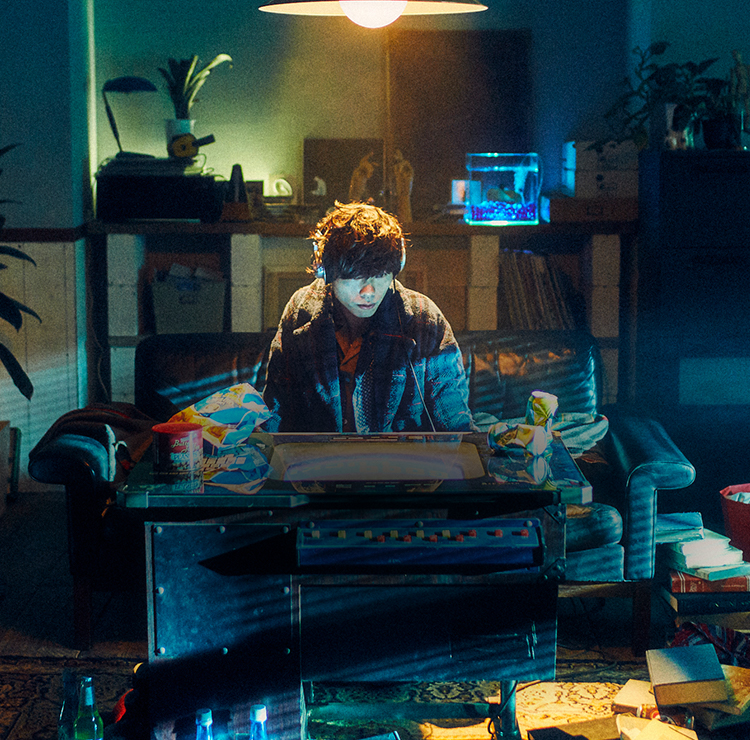
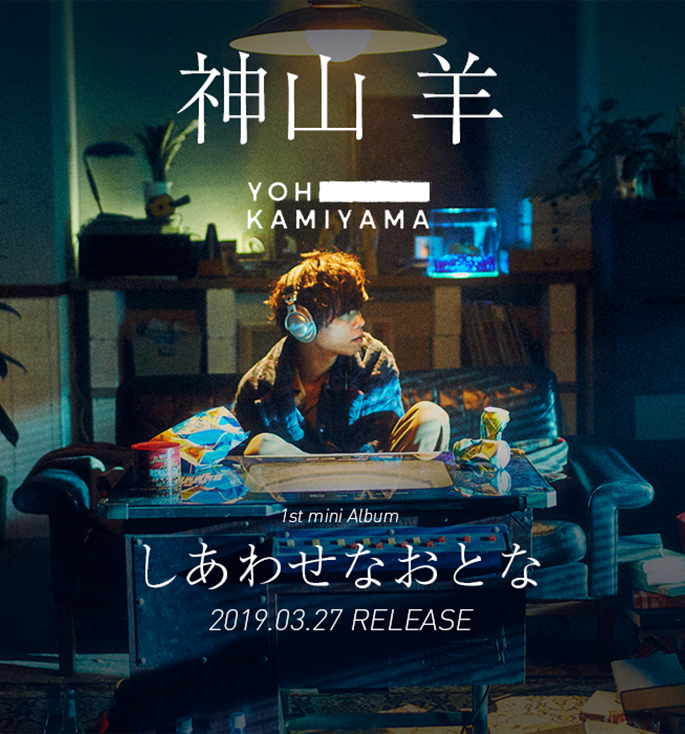
LP修正

diff --git a/lp/css/style.css b/lp/css/style.css
@@ -142,24 +142,30 @@ Base Media Queries PC
 	header
 ================================*/
 .header {
+  position: relative;
+  background: #000 url(../img/mv.jpg) repeat-x center center;
+  background-size: auto 100%;
+  text-align: center; }
+
+.header__logo {
+  text-align: center; }
+  .header__logo img {
+    margin: 0 auto; }
+
+.header__wrap {
   position: absolute;
   top: 0;
   right: 0;
+  bottom: 0;
   left: 0;
-  padding: 32px 0;
-  z-index: 1000; }
+  max-width: 1140px; }
 
-.header__wrap {
-  display: flex;
-  align-items: center;
-  justify-content: space-between;
-  max-width: 1110px; }
-
-.header__logo {
-  width: 162px; }
-
-.header__sns .sns__item {
-  margin-left: 10px; }
+.header__sns {
+  padding-top: 32px; }
+  .header__sns.sns {
+    justify-content: flex-end; }
+  .header__sns .sns__item {
+    margin-left: 10px; }
 
 /*================================
 	sns
@@ -171,29 +177,6 @@ Base Media Queries PC
 
 .sns__item {
   width: 28px; }
-
-/*================================
-	mainVisual
-================================*/
-.mainVisual {
-  position: relative;
-  height: 666px;
-  background: #000 url(../img/mv.jpg) repeat-x center center;
-  background-size: auto 100%; }
-
-.mainVisual__wrap {
-  display: flex;
-  align-items: flex-end;
-  justify-content: center;
-  position: absolute;
-  top: 0;
-  right: 0;
-  bottom: 0;
-  left: 0;
-  padding: 68px 0; }
-
-.mainVisual__logo {
-  width: 698px; }
 
 /*================================
 	album
@@ -411,10 +394,7 @@ Base Media Queries PC
 ================================*/
 .shop {
   padding: 100px 0;
-  background-image: url(../img/bg_shop.jpg);
-  background-position: center center;
-  background-repeat: no-repeat;
-  background-size: cover; }
+  background-color: #e6e6e6; }
 
 .shop__head {
   max-width: 344px;
@@ -496,6 +476,34 @@ Base Media Queries PC
     -ms-transform: rotate(45deg);
     -webkit-transform: rotate(45deg);
     transform: rotate(45deg); }
+
+/*================================
+	live
+================================*/
+.live {
+  padding: 0 0 140px;
+  background-color: #e6e6e6; }
+
+.live__head {
+  max-width: 344px;
+  margin: 0 auto 7em;
+  text-align: center; }
+
+.live__wrap {
+  max-width: 640px; }
+
+.live__head1 {
+  margin-bottom: 0.2em;
+  font-size: 2.6rem; }
+
+.live__head2 {
+  margin-bottom: 0.2em;
+  font-size: 2.0rem; }
+
+.live__txt {
+  margin-bottom: 1em;
+  font-size: 1.4rem;
+  line-height: 2.2; }
 
 /*================================
 	footer
@@ -598,12 +606,6 @@ Base Media Queries SP
   /*================================
   	header
   ================================*/
-  .header {
-    padding: 20px 0; }
-
-  .header__logo {
-    width: 23.47826%; }
-
   .header__sns {
     display: none; }
 
@@ -612,21 +614,6 @@ Base Media Queries SP
   ================================*/
   .sns__item {
     width: 40px; }
-
-  /*================================
-  	mainVisual
-  ================================*/
-  .mainVisual {
-    height: auto;
-    padding-top: 97.86667%;
-    background: #000 url(../img/mv_sp.jpg) no-repeat center center;
-    background-size: cover; }
-
-  .mainVisual__wrap {
-    padding: 3em 15px; }
-
-  .mainVisual__logo {
-    width: 100%; }
 
   /*================================
   	album
@@ -830,6 +817,36 @@ Base Media Queries SP
       height: 7px; }
     .shop__button img {
       width: 20%; }
+
+  /*================================
+  	live
+  ================================*/
+  .live {
+    padding: 3em 0 6em; }
+
+  .live__head {
+    max-width: none;
+    width: 49.85507%;
+    margin: 0 auto 3.5em; }
+
+  .live__wrap {
+    margin: 0 15px; }
+
+  .live__head1 {
+    margin-bottom: 0.2em;
+    font-size: 18px;
+    font-size: get_vmax(18); }
+
+  .live__head2 {
+    margin-bottom: 0.2em;
+    font-size: 15px;
+    font-size: get_vmax(15); }
+
+  .live__txt {
+    margin-bottom: 1em;
+    font-size: 12px;
+    font-size: get_vmax(12);
+    line-height: 1.8; }
 
   /*================================
   	footer

diff --git a/lp/index.html b/lp/index.html
@@ -20,19 +20,17 @@
 <body>
 	<div id="wrapper" class="-fixed">
 		<header class="header">
+			<h1 class="header__logo">
+				<img src="img/mv.jpg" alt="YOH KAMIYAMA" class="pc-only">
+				<img src="img/mv_sp.jpg" alt="YOH KAMIYAMA" class="sp-only">
+			</h1>
 			<div class="header__wrap wrap">
-				<h1 class="header__logo"><img src="img/logo.png" alt="YOH KAMIYAMA"></h1>
 				<div class="header__sns sns">
 					<a href="#" class="sns__item"><img src="./img/icn_twitter.svg" alt="twitter"></a>
 					<a href="#" class="sns__item"><img src="./img/icn_facebook.svg" alt="facebook"></a>
 				<!--/.header__sns--></div>
 			<!--/.header__wrap--></div>
 		</header>
-		<main class="mainVisual">
-			<div class="mainVisual__wrap wrap">
-				<h1 class="mainVisual__logo  -anim"><img src="img/logo_mv.png" alt=""></h1>
-			<!--/.mainVisual__wrap--></div>
-		</main>
 		<div class="contents">
 			<div class="album">
 				<div class="album__wrap wrap">
@@ -113,30 +111,12 @@
 								<figcaption class="video__item__title">タイトルはいります</figcaption>
 							</figure>
 						<!--/.video__item--></div>
-						<div data-youtube-id="" class="video__item -anim">
-							<figure class="video__item__thumb">
-								<p class="video__item__img"><img src="img/thumb_video2.jpg" alt=""></p>
-								<figcaption class="video__item__title">タイトルはいります</figcaption>
-							</figure>
-						<!--/.video__item--></div>
-						<div data-youtube-id="" class="video__item -anim">
-							<figure class="video__item__thumb">
-								<p class="video__item__img"><img src="img/thumb_video1.jpg" alt=""></p>
-								<figcaption class="video__item__title">タイトルはいります</figcaption>
-							</figure>
-						<!--/.video__item--></div>
-						<div data-youtube-id="" class="video__item -anim">
-							<figure class="video__item__thumb">
-								<p class="video__item__img"><img src="img/thumb_video1.jpg" alt=""></p>
-								<figcaption class="video__item__title">タイトルはいります</figcaption>
-							</figure>
-						<!--/.video__item--></div>
 					<!--/.video__items--></div>
 				<!--/.video__wrap--></div>
 			<!--/.video--></article>
 			<article class="shop">
 				<div class="shop__wrap wrap">
-					<h1 class="shop__head"><img src="img/head_shop.png" alt="MUSIC VIDEO"></h1>
+					<h1 class="shop__head"><img src="img/head_shop.png" alt="法人特典"></h1>
 					<div class="shop__items">
 						<div class="shop__item -item1 -anim">
 							<figure class="shop__item__logo">
@@ -201,6 +181,21 @@
 					<!--/.shop__items--></div>
 				<!--/.shop__wrap--></div>
 			<!--/.shop--></article>
+			<article class="live">
+				<div class="live__wrap wrap">
+					<h1 class="live__head"><img src="img/head_live.png" alt="LIVE INFO"></h1>
+					<section>
+						<h1 class="live__head1">＜チケット情報＞</h1>
+						<h2 class="live__head2">◎チケット料金</h2>
+						<p class="live__txt">オールスタンディング ¥3,900(税込)+1Drink代別途<br>
+							※なんばHatch公演＆Zepp Tokyo公演のみ、2F指定席販売あり ¥4,200(税込)+1Drink代別途</p>
+						<h2 class="live__head2">◎一般発売</h2>
+						<p class="live__txt">年内公演：8月5日(土) / 1月公演：10月7日(土)<br>
+							◎プレイガイド<br>
+							チケットぴあ / ローソンチケット / イープラス</p>
+					</section>
+				<!--/.live__wrap--></div>
+			<!--/.live--></article>
 		<!--/.contents--></div>
 		<footer class="footer">
 			<div class="footer__wrap wrap">

diff --git a/lp/js/common.js b/lp/js/common.js
@@ -60,7 +60,6 @@ $(function(){
 	
 	
 	//スクロール処理
-	var _timer;
 	function scrollAnim() {
 		var sT = $window.scrollTop() + $window.height() * 0.9;
 		var count = 0;
@@ -85,7 +84,7 @@ $(function(){
 		});
 	};
 	
-	$window.on('scroll',function(){
+	$window.on('scroll', function(e){
 		scrollAnim();
 	});
 	
